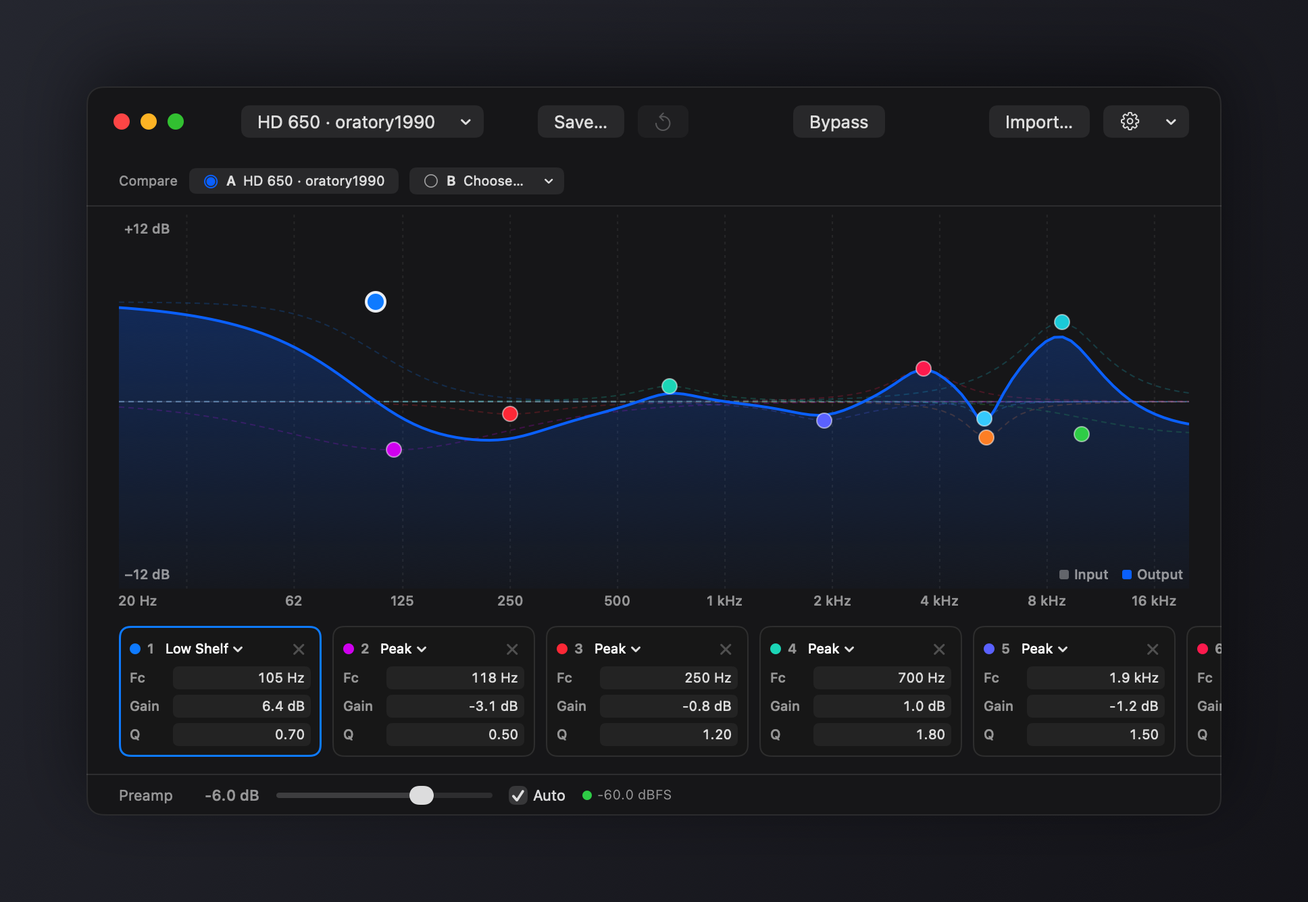
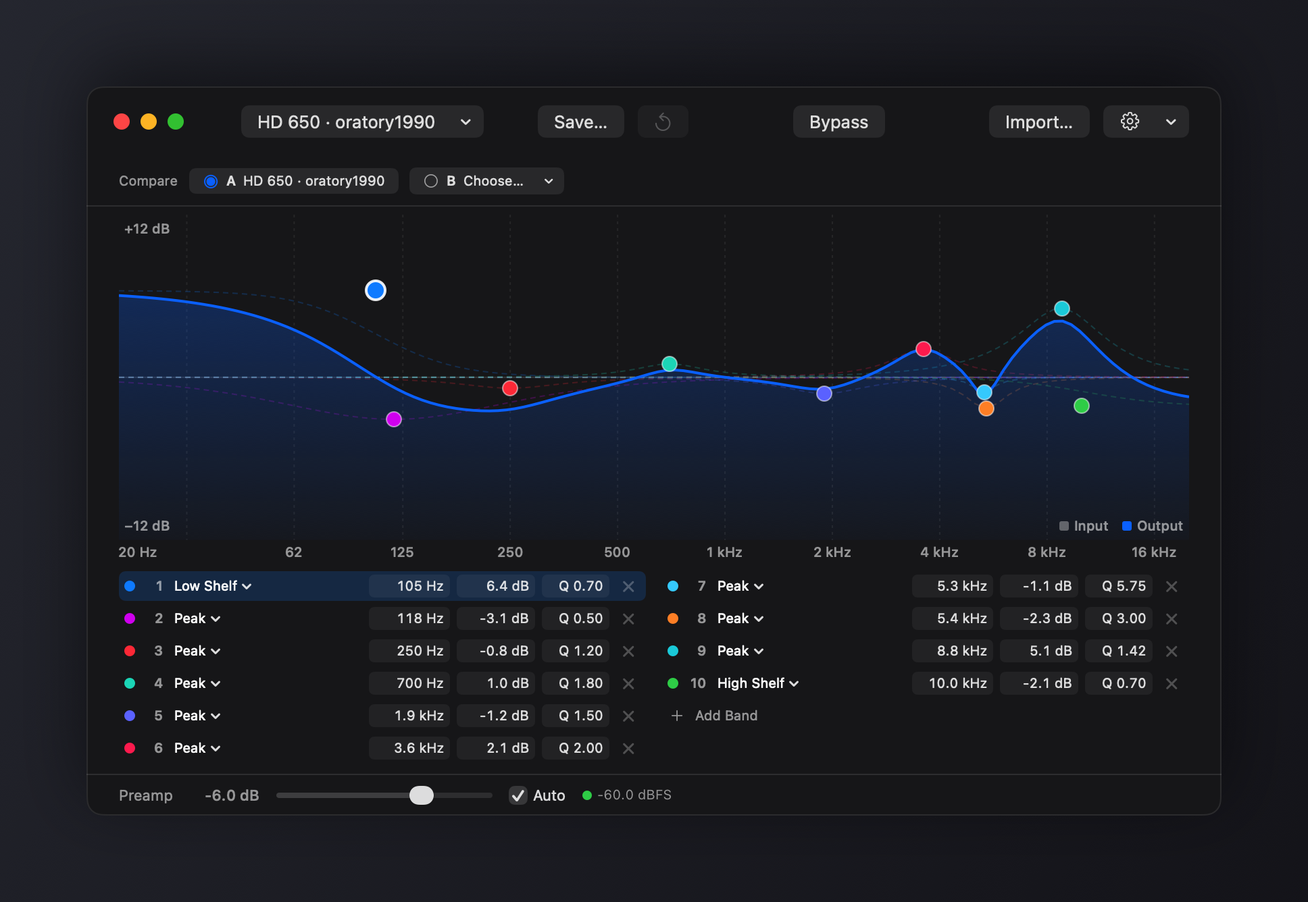
feat: list editor bands as rows in columns (#43)
Replace the horizontally scrolling strip of 150 pt band cards with a
list of 22 pt band rows in two columns (three in a wide window), filled
top to bottom then left to right in frequency order. A ten-band preset
and the Add Band row fit in the 158 pt strip without scrolling; longer
presets scroll vertically. Each row holds the type menu, frequency,
gain, and Q fields, and the delete glyph; the selected row is tinted in
its band colour. Release 1.4.7.

diff --git a/Sources/OnlyEQ/UI/EditorView.swift b/Sources/OnlyEQ/UI/EditorView.swift
@@ -327,51 +327,79 @@ struct EditorView: View {
         return ordered
     }
 
+    /// Bands as rows in two or more columns, filled top to bottom then left
+    /// to right, so a ten-band preset shows whole with no scrolling. Longer
+    /// presets scroll vertically; wider windows add a column.
     private var bandStrip: some View {
-        ScrollViewReader { proxy in
-            ScrollView(.horizontal) {
-                HStack(spacing: 8) {
-                    ForEach(Array(orderedBands.enumerated()), id: \.element.id) { index, band in
-                        BandCard(index: index, band: bandBinding(band.id),
-                                 isSelected: selectedBandID == band.id,
-                                 onDelete: { deleteBand(band.id) })
-                            .onTapGesture { selectedBandID = band.id }
-                            .focusable()
-                            .focused($focusedBandID, equals: band.id)
-                            .id(band.id)
-                    }
-                    addBandButton
+        GeometryReader { geo in
+            let usable = geo.size.width - 48 + Self.bandColumnSpacing
+            let columnCount = max(1, Int(usable / (Self.bandColumnMinWidth + Self.bandColumnSpacing)))
+            ScrollViewReader { proxy in
+                ScrollView(.vertical) {
+                    bandColumns(count: columnCount)
+                        .padding(.horizontal, 24)
+                        .padding(.vertical, 8)
                 }
-                .padding(.horizontal, 24)
-                .padding(.vertical, 8)
-            }
-            // Selecting a handle on the graph brings its card into view, so a
-            // 32-band preset never hides the card being edited.
-            .onChange(of: selectedBandID) { _, id in
-                guard let id else { return }
-                withAnimation(reduceMotion ? nil : .easeOut(duration: 0.2)) { proxy.scrollTo(id, anchor: .center) }
+                // Selecting a handle on the graph brings its row into view, so a
+                // 32-band preset never hides the row being edited.
+                .onChange(of: selectedBandID) { _, id in
+                    guard let id else { return }
+                    withAnimation(reduceMotion ? nil : .easeOut(duration: 0.2)) { proxy.scrollTo(id, anchor: .center) }
+                }
             }
         }
-        .frame(height: 122)
+        .frame(height: Self.bandStripHeight)
     }
 
-    private var addBandButton: some View {
+    static let bandColumnMinWidth: CGFloat = 328
+    static let bandColumnSpacing: CGFloat = 12
+    /// Six 22 pt rows at 2 pt spacing plus 8 pt above and below: ten bands
+    /// and the add row in two columns.
+    static let bandStripHeight: CGFloat = 158
+
+    private func bandColumns(count: Int) -> some View {
+        let bands = orderedBands
+        let itemCount = bands.count + 1
+        let rows = Int((Double(itemCount) / Double(count)).rounded(.up))
+        return HStack(alignment: .top, spacing: Self.bandColumnSpacing) {
+            ForEach(0..<count, id: \.self) { column in
+                VStack(spacing: 2) {
+                    ForEach(column * rows..<min((column + 1) * rows, itemCount), id: \.self) { position in
+                        if position < bands.count {
+                            let band = bands[position]
+                            BandRow(index: position, band: bandBinding(band.id),
+                                    isSelected: selectedBandID == band.id,
+                                    onDelete: { deleteBand(band.id) })
+                                .onTapGesture { selectedBandID = band.id }
+                                .focusable()
+                                .focused($focusedBandID, equals: band.id)
+                                .id(band.id)
+                        } else {
+                            addBandRow
+                        }
+                    }
+                }
+                .frame(maxWidth: .infinity)
+            }
+        }
+    }
+
+    private var addBandRow: some View {
         Button {
             addBand(EQBand(type: .peak, frequency: 1000, gain: 0, q: 1.41))
         } label: {
-            Image(systemName: "plus")
-                .font(.title3)
-                .frame(width: 44, height: 100)
+            Label("Add Band", systemImage: "plus")
+                .font(.caption)
+                .foregroundStyle(.secondary)
+                .frame(maxWidth: .infinity, alignment: .leading)
+                .padding(.horizontal, 6)
+                .frame(height: 22)
+                .contentShape(Rectangle())
         }
         .buttonStyle(.plain)
         .disabled(bandLimitReached)
         .help(bandLimitReached ? "32 bands maximum" : "Add band")
         .accessibilityLabel("Add band")
-        .background(
-            RoundedRectangle(cornerRadius: 8)
-                .strokeBorder(style: StrokeStyle(lineWidth: 1, dash: [4]))
-                .foregroundStyle(.tertiary)
-        )
     }
 
     private func bandBinding(_ id: UUID) -> Binding<EQBand> {
@@ -672,57 +700,56 @@ private final class PeakMeterNSView: NSView {
     }
 }
 
-/// Compact per-band card: color dot, type menu, Fc/Gain/Q fields, delete.
-struct BandCard: View {
+/// One band as a list row: colour dot, number, type menu, then frequency,
+/// gain, and Q as click-to-edit fields, and the delete glyph.
+struct BandRow: View {
     var index: Int
     @Binding var band: EQBand
     var isSelected: Bool
     var onDelete: () -> Void
 
+    private var color: Color { BandPalette.color(band.colorIndex ?? index) }
+
     var body: some View {
-        VStack(alignment: .leading, spacing: 4) {
-            HStack(spacing: 5) {
-                Circle().fill(BandPalette.color(band.colorIndex ?? index)).frame(width: 8, height: 8)
-                Text("\(index + 1)").font(.caption.weight(.semibold)).foregroundStyle(.secondary)
-                Menu {
-                    ForEach(FilterType.allCases) { type in
-                        Button(type.displayName) { band.type = type }
-                    }
-                } label: {
-                    Text(band.type.displayName).font(.caption)
+        HStack(spacing: 5) {
+            Circle().fill(color).frame(width: 8, height: 8)
+            Text("\(index + 1)").font(.caption.weight(.semibold)).foregroundStyle(.secondary)
+                .frame(width: 16, alignment: .trailing)
+            Menu {
+                ForEach(FilterType.allCases) { type in
+                    Button(type.displayName) { band.type = type }
                 }
-                .menuStyle(.borderlessButton)
-                .fixedSize()
-                Spacer(minLength: 0)
-                Button {
-                    onDelete()
-                } label: {
-                    Image(systemName: "xmark")
-                        .font(.caption2.weight(.bold))
-                        .frame(width: 18, height: 18)
-                        .contentShape(Rectangle())
-                }
-                .buttonStyle(.plain)
-                .foregroundStyle(.tertiary)
-                .help("Delete band")
-                .accessibilityLabel("Delete band")
+            } label: {
+                Text(band.type.displayName).font(.caption)
             }
-            valueRow("Fc", value: $band.frequency, range: 20...20000, format: freqFormat, parse: parseFreq)
-            valueRow("Gain", value: $band.gain, range: -30...30, format: { String(format: "%.1f dB", $0) },
-                     parse: { Double($0.replacingOccurrences(of: "dB", with: "").trimmingCharacters(in: .whitespaces)) })
-            valueRow("Q", value: $band.q, range: 0.1...30, format: { String(format: "%.2f", $0) }, parse: { Double($0) })
+            .menuStyle(.borderlessButton)
+            .fixedSize()
+            .frame(width: 72, alignment: .leading)
+            Spacer(minLength: 4)
+            valueField("Frequency", value: $band.frequency, range: 20...20000, width: 60,
+                       format: freqFormat, parse: parseFreq)
+            valueField("Gain", value: $band.gain, range: -30...30, width: 58,
+                       format: { String(format: "%.1f dB", $0) },
+                       parse: { Double($0.replacingOccurrences(of: "dB", with: "").trimmingCharacters(in: .whitespaces)) })
+            valueField("Q", value: $band.q, range: 0.1...30, width: 50,
+                       format: { String(format: "Q %.2f", $0) },
+                       parse: { Double($0.lowercased().replacingOccurrences(of: "q", with: "").trimmingCharacters(in: .whitespaces)) })
+            Button {
+                onDelete()
+            } label: {
+                Image(systemName: "xmark")
+                    .font(.caption2.weight(.bold))
+                    .frame(width: 18, height: 18)
+                    .contentShape(Rectangle())
+            }
+            .buttonStyle(.plain)
+            .foregroundStyle(.tertiary)
+            .help("Delete band")
+            .accessibilityLabel("Delete band")
         }
-        .padding(8)
-        .frame(width: 150)
-        .background(
-            RoundedRectangle(cornerRadius: 8)
-                .fill(Color(nsColor: .controlBackgroundColor))
-                .overlay(
-                    RoundedRectangle(cornerRadius: 8)
-                        .strokeBorder(isSelected ? BandPalette.color(band.colorIndex ?? index) : Color(nsColor: .separatorColor),
-                                      lineWidth: isSelected ? 1.5 : 1)
-                )
-        )
+        .padding(.horizontal, 4)
+        .frame(height: 22)
+        .background(RoundedRectangle(cornerRadius: 5).fill(isSelected ? color.opacity(0.18) : .clear))
         .opacity(band.isEnabled ? 1 : 0.5)
         .contextMenu {
             Button(band.isEnabled ? "Disable Band" : "Enable Band") { band.isEnabled.toggle() }
@@ -746,20 +773,18 @@ struct BandCard: View {
 
     /// Typed values are clamped to the same range the canvas drag allows, so a
     /// stray "0" cannot put a node at log10(0) or push gain off the graph.
-    private func valueRow(_ label: String, value: Binding<Double>, range: ClosedRange<Double>,
-                          format: @escaping (Double) -> String,
-                          parse: @escaping (String) -> Double?) -> some View {
-        HStack(spacing: 4) {
-            Text(label).font(.caption2).foregroundStyle(.secondary).frame(minWidth: 28, alignment: .leading)
-            // The draft carries the exact unitless value so a band shown as
-            // "1.5 kHz" edits as "1534", not "1.5" (which would parse as 1.5 Hz).
-            EditableValueField(label: label, text: format(value.wrappedValue),
-                               editText: String(format: "%g", value.wrappedValue)) { input in
-                if let parsed = parse(input), parsed.isFinite {
-                    value.wrappedValue = min(max(parsed, range.lowerBound), range.upperBound)
-                }
+    private func valueField(_ label: String, value: Binding<Double>, range: ClosedRange<Double>, width: CGFloat,
+                            format: @escaping (Double) -> String,
+                            parse: @escaping (String) -> Double?) -> some View {
+        // The draft carries the exact unitless value so a band shown as
+        // "1.5 kHz" edits as "1534", not "1.5" (which would parse as 1.5 Hz).
+        EditableValueField(label: label, text: format(value.wrappedValue),
+                           editText: String(format: "%g", value.wrappedValue)) { input in
+            if let parsed = parse(input), parsed.isFinite {
+                value.wrappedValue = min(max(parsed, range.lowerBound), range.upperBound)
             }
         }
+        .frame(width: width)
     }
 }
 

diff --git a/DESIGN.md b/DESIGN.md
@@ -151,7 +151,7 @@ OnlyEQ should look like a utility Apple forgot to ship. Every colour is a system
 
 The popover is one instrument, not a stack of cards. Under the name, its latency in small type, and its switch, the plot fills the width inside a hairline well: the live spectrum leads and the response is a thin line over it, with a vertical volume fader at the plot's side and a pill in the corner only when something is off (bypassed, waiting for audio, error). Bypass and Crossfeed follow as two small capsule toggles, kin to the pill, with the output device as a capsule pull-down at the row's end; then the preset in semibold with the checkbox that binds it to the device, and a hairline with a bordered Open Equalizer… and the gear. Rows are separated by space, not by boxes. The whole thing sits on the system's own menu-bar material in a 360 point wide panel about 350 points tall that grows only with the system text size. The editor, Settings, onboarding, and the import sheet are ordinary macOS windows: a unified toolbar, toolbar-style settings tabs, a setup assistant with a Back and Continue footer, a sheet with a segmented picker.
 
-Motion is short, eased, and tied to a state change. A switch slides in 120 ms, bypass eases the response onto the 0 dB line over 350 ms while the plot dims, the band strip scrolls a selected card into view in 200 ms, and the spectrum attacks in 10 ms and releases over 400 ms. Every one of them is skipped under Reduce Motion, and that is the whole vocabulary.
+Motion is short, eased, and tied to a state change. A switch slides in 120 ms, bypass eases the response onto the 0 dB line over 350 ms while the plot dims, the band list scrolls a selected row into view in 200 ms, and the spectrum attacks in 10 ms and releases over 400 ms. Every one of them is skipped under Reduce Motion, and that is the whole vocabulary.
 
 **Key Characteristics:**
 - System accent and system label colours only; the app never defines a hue of its own outside the band palette.
@@ -170,10 +170,9 @@ The palette is macOS itself; the tokens above are dark-appearance snapshots of d
 ### Neutral
 - **Label** (`.primary`): headings, values, menu labels, the plot's 0 dB line.
 - **Secondary Label** (`.secondary`): the workhorse for everything a person reads that is not a heading: captions, axis labels, form descriptions, the status pill text, the preset binding checkbox, the input spectrum bars, and the row symbols in the popover.
-- **Tertiary Label** (`.tertiary`): decoration only. Two uses: the dashed border of the add-band button and the delete glyph on a band card.
+- **Tertiary Label** (`.tertiary`): decoration only. One use: the delete glyph on a band row.
 - **Quaternary Label** (`.quaternary` at 50 to 60 %): the fill behind editable value fields and shortcut key caps.
 - **Well Fill** (`Color.primary` at 3.5 %) with **Well Hairline** (`Color.primary` at 8 %): the plot well, the one surface the app draws.
-- **Control Background** and **Separator** (`NSColor.controlBackgroundColor`, `.separatorColor`): band cards in the editor.
 - **Track Off** (`Color.primary` at 18 %): a switch that is off. **Slider Track** (`Color.primary` at 12 %): the 4 pt vertical fader track, accent to 100 %, orange above it, with a 35 % tick at 100 %.
 - **Panel Material** (`NSGlassEffectView` regular on macOS 26, `NSVisualEffectView` `.popover` behind-window before): what stands between the popover and the desktop. Notices inside the plot well use `.background` at 60 % (status pill) and 85 % (headphone suggestion) so they read over the spectrum.
 
@@ -219,7 +218,7 @@ The palette is macOS itself; the tokens above are dark-appearance snapshots of d
 
 The popover is one `VStack` inside 14 pt side padding, 360 pt wide and about 350 pt tall, with a spacing rhythm of tight inside a group and generous between groups: header (badge, name, caption latency, switch), 10 pt, the plot row (the well at a fixed 150 pt with the compact axis labels 4 pt beneath, then 10 pt and the 30 pt fader column whose track spans the well's height and whose readout sits on the axis line), 8 pt, the listening row (Bypass and Crossfeed as small text capsule toggles leading, the output device as a small text capsule pull-down trailing), 18 pt, the preset row in semibold with its "Use automatically on <device>" small checkbox, 14 pt, then a hairline and the footer (a text-only bordered Open Equalizer… and the gear menu with its system indicator) 10 pt below it. The preset row is a 22 pt secondary symbol (`waveform.path`), an 8 pt gap, a borderless menu, and its detail indented 30 pt underneath. The popover is sized once to its fitting size when shown, so the panel never resizes while open. It grows only with the system text size.
 
-The editor window opens at 840 by 560 pt with a minimum of 720 by 480. Its unified 52 pt title bar carries real toolbar items (preset menu, Save…, and Revert as an `arrow.counterclockwise` glyph on the left; Bypass in the centre; a text-only Import… and the gear on the right) and hides the window title. The verbs are words; the one glyph is the undo arrow. Below it: the Compare row with 8 pt above and below, a divider, the graph filling the remaining height with 24 pt side margins, a 122 pt horizontally scrolling strip of 150 pt band cards at 8 pt spacing, ordered low to high in frequency so it reads like the graph (the order holds still for the length of a node drag), a divider, and the Preamp bar. Everything in the editor shares the 24 pt horizontal margin.
+The editor window opens at 840 by 560 pt with a minimum of 720 by 480. Its unified 52 pt title bar carries real toolbar items (preset menu, Save…, and Revert as an `arrow.counterclockwise` glyph on the left; Bypass in the centre; a text-only Import… and the gear on the right) and hides the window title. The verbs are words; the one glyph is the undo arrow. Below it: the Compare row with 8 pt above and below, a divider, the graph filling the remaining height with 24 pt side margins, a 158 pt band list of 22 pt rows in two columns (three from 1056 pt wide), filled top to bottom then left to right and ordered low to high in frequency so it reads like the graph (the order holds still for the length of a node drag); ten bands and the Add Band row fit without scrolling, longer presets scroll vertically. Then a divider and the Preamp bar. Everything in the editor shares the 24 pt horizontal margin.
 
 Settings is 560 pt wide with toolbar-style tabs (General, Devices, Sound, Shortcuts, Advanced, each an SF Symbol); each page is one grouped `Form` and the window resizes to the page. Onboarding is 560 pt wide and at least 460 tall: content, a divider, and a footer with Back on the left and Continue or Start Listening on the right at the large control size with 16 pt padding. The import sheet is 560 pt wide and at least 470 tall: a segmented picker at 12 pt padding, a divider, the tab body at 16 pt padding, a divider, and Cancel and Apply at 12 pt padding.
 
@@ -227,7 +226,7 @@ The observed spacing values are 2, 4, 6, 8, 10, 12, 14, 16, and 24 pt. Treat 4 a
 
 ## Elevation & Depth
 
-Flat, by macOS convention. The popover panel has the system shadow and the system material; the windows are ordinary windows. Nothing inside a window casts a shadow. Depth within a surface is tonal: the plot well is a 3.5 % tint with an 8 % hairline, a band card is the control background colour with a separator hairline that becomes a 1.5 pt band-coloured border when selected, and a notice over the spectrum is `.background` at 60 to 85 % with the same 8 % hairline. The one exception is the switch and slider knob, which carry AppKit's 25 to 35 % black shadow at 1 to 1.5 pt radius because the real control does.
+Flat, by macOS convention. The popover panel has the system shadow and the system material; the windows are ordinary windows. Nothing inside a window casts a shadow. Depth within a surface is tonal: the plot well is a 3.5 % tint with an 8 % hairline, a selected band row is a 5 pt rounded fill of its band colour at 18 %, and a notice over the spectrum is `.background` at 60 to 85 % with the same 8 % hairline. The one exception is the switch and slider knob, which carry AppKit's 25 to 35 % black shadow at 1 to 1.5 pt radius because the real control does.
 
 ### Named Rules
 **The System Casts The Shadow Rule.** Only windows, popovers, sheets, and control knobs have shadows, and only the ones AppKit would draw. Do not add shadows to cards, nodes, or hover states.
@@ -236,7 +235,7 @@ Flat, by macOS convention. The popover panel has the system shadow and the syste
 
 ## Shapes
 
-Continuous (squircle) corners at 14 pt for the popover panel, 10 pt for the plot well and drop well, 8 pt for notices over the plot, and 27 % of the badge size for the app badge. Standard corners at 8 pt for band cards and the add-band button, 7 pt for the headphone-suggestion banner in the import sheet, 5 pt for shortcut key caps, and 4 pt for value fields. Switches, the status pill, and slider tracks are capsules. Graph handles are 11 pt circles with a 1 pt white ring at 50 %, growing to 14 pt with a 2 pt ring at 90 % when selected. Hairlines are 1 pt at 8 % primary, or the system separator colour.
+Continuous (squircle) corners at 14 pt for the popover panel, 10 pt for the plot well and drop well, 8 pt for notices over the plot, and 27 % of the badge size for the app badge. Standard corners at 7 pt for the headphone-suggestion banner in the import sheet, 5 pt for shortcut key caps and the selected band row, and 4 pt for value fields. Switches, the status pill, and slider tracks are capsules. Graph handles are 11 pt circles with a 1 pt white ring at 50 %, growing to 14 pt with a 2 pt ring at 90 % when selected. Hairlines are 1 pt at 8 % primary, or the system separator colour.
 
 ## Components
 
@@ -264,8 +263,8 @@ Continuous (squircle) corners at 14 pt for the popover panel, 10 pt for the plot
 ### Key Cap
 - A 5 pt radius quaternary 60 % fill with 8 by 3 pt padding and subheadline SF Mono text, showing a global shortcut chord in Settings.
 
-### Band Card
-- 150 pt wide, 8 pt padding, control-background fill, separator hairline; the border becomes the band colour at 1.5 pt when selected; 50 % opacity when the band is disabled. Header: an 8 pt colour dot, the band number in caption semibold secondary, a borderless type menu, and a tertiary delete glyph. Three value rows below. The add-band button beside the strip is a 44 by 100 pt plain button with a tertiary 1 pt dashed border.
+### Band Row
+- A 22 pt row, 4 pt side padding, 5 pt spacing: an 8 pt colour dot, the band number in caption semibold secondary right-aligned in 16 pt, a borderless type menu in a 72 pt column, then frequency, gain, and Q as 60, 58, and 50 pt value fields (the Q field reads "Q 1.41" so it names itself), and a tertiary delete glyph. Selected: a 5 pt rounded fill of the band colour at 18 %. 50 % opacity when the band is disabled. The last row is Add Band, a plain caption button with a `plus` glyph in secondary.
 
 ### Curve Editor (signature)
 - Log-frequency plot from 20 Hz to 20 kHz. Grid is 1 pt secondary at 12 % dashed 2/3 on octaves; the 0 dB line is 25 %. The composite response is a 2 pt accent stroke over a vertical accent gradient from 35 % to 3 % in the editor and previews; in the popover it is a 1.5 pt line at 90 % with no fill, and the spectrum bars run at 22 % and 85 % height so the music leads and the curve reads over it. In the editor each band draws its own response dashed 4/3 at 22 % in its palette colour. Behind everything, log-spaced spectrum bars in an AppKit layer: input in secondary label colour, output in accent, both at low alpha, with a 10 ms attack and 400 ms release on band power, a 45 ms interpolation at the display rate, and the output shifted by the static gain so only the filter shape shows. Bypass dims the plot to 55 % and eases the response onto the 0 dB line, so the curve settles flat rather than vanishing.

diff --git a/README.md b/README.md
@@ -22,7 +22,7 @@ This is a fork of [zollans/OnlyEQ](https://github.com/zollans/OnlyEQ). Everythin
 - **Editor with a real title-bar toolbar**, and Settings in its own window (⌘,), as on any Mac app.
 - **Releases from GitHub Actions.** Every push runs the self-tests and builds the universal app in release mode. Pushing a `v*` tag signs the archive with this fork's Sparkle key and publishes it with its appcast as a GitHub Release, which installed copies pick up automatically. Upstream's feed is no longer used, so an upstream release can never replace a fork build.
 - **Input and output spectrum.** The analyser draws the pre-EQ signal in grey behind the post-EQ signal in the accent colour, level-aligned for preamp and output gain, so the EQ's effect is visible on real music. Bars show band power (a full-scale sine reads 0 dBFS), tilted 2 dB per octave so typical music reads flat instead of bass-heavy, with a 10 ms attack and 400 ms release so transients register without flicker. Bars below about 300 Hz read from a 16384-point FFT and the rest from a 2048-point one, so bass has real resolution without smearing transients above.
-- **Simpler controls.** The popover has one preset row with Bypass and Crossfeed side by side, a curve that empties to the input spectrum while bypassed, and a gear menu holding Settings, Check for Updates, and Quit. The right-click menu offers the same items. The editor's Reset-to-flat button is replaced by Revert (the undo arrow in the toolbar), which restores the saved preset, and the output-device picker lives only in the popover. The editor's band cards run low to high in frequency, so the strip reads like the graph. Settings gains a Sound tab for the limiter, crossfeed, and loudness.
+- **Simpler controls.** The popover has one preset row with Bypass and Crossfeed side by side, a curve that empties to the input spectrum while bypassed, and a gear menu holding Settings, Check for Updates, and Quit. The right-click menu offers the same items. The editor's Reset-to-flat button is replaced by Revert (the undo arrow in the toolbar), which restores the saved preset, and the output-device picker lives only in the popover. The editor lists bands as rows in two columns, low to high in frequency, so a ten-band preset shows whole without scrolling. Settings gains a Sound tab for the limiter, crossfeed, and loudness.
 - **True-peak limiter.** The limiter's detector interpolates 4× between samples (as in ITU-R BS.1770 Annex 2), so the ceiling holds for the reconstructed waveform rather than for the samples, which can under-read inter-sample peaks by up to 3 dB.
 - **Matched biquads.** Filters use Vicanek's matched second-order design instead of the bilinear transform, so peaks and shelves near 20 kHz keep their intended shape and a preset measures the same at 44.1 kHz and 96 kHz. Shelves additionally use his two-pole shelving fit, which holds within about 0.6 dB even for corner frequencies at or above Nyquist, where the pole-matched design used to fall back to the cramped bilinear one; each shelf keeps whichever design tracks the analog prototype better.
 

diff --git a/release-notes/1.4.7.md b/release-notes/1.4.7.md
@@ -1,0 +1,7 @@
+# OnlyEQ 1.4.7
+
+Compact band list in the editor.
+
+- Bands are rows in two columns (three in a wide window) instead of cards in a horizontally scrolling strip. A ten-band preset shows whole; longer presets scroll vertically.
+- Each row holds the type menu, frequency, gain, and Q fields, and the delete glyph. The selected band's row is tinted in its colour.
+- Add Band is the last row of the list.
